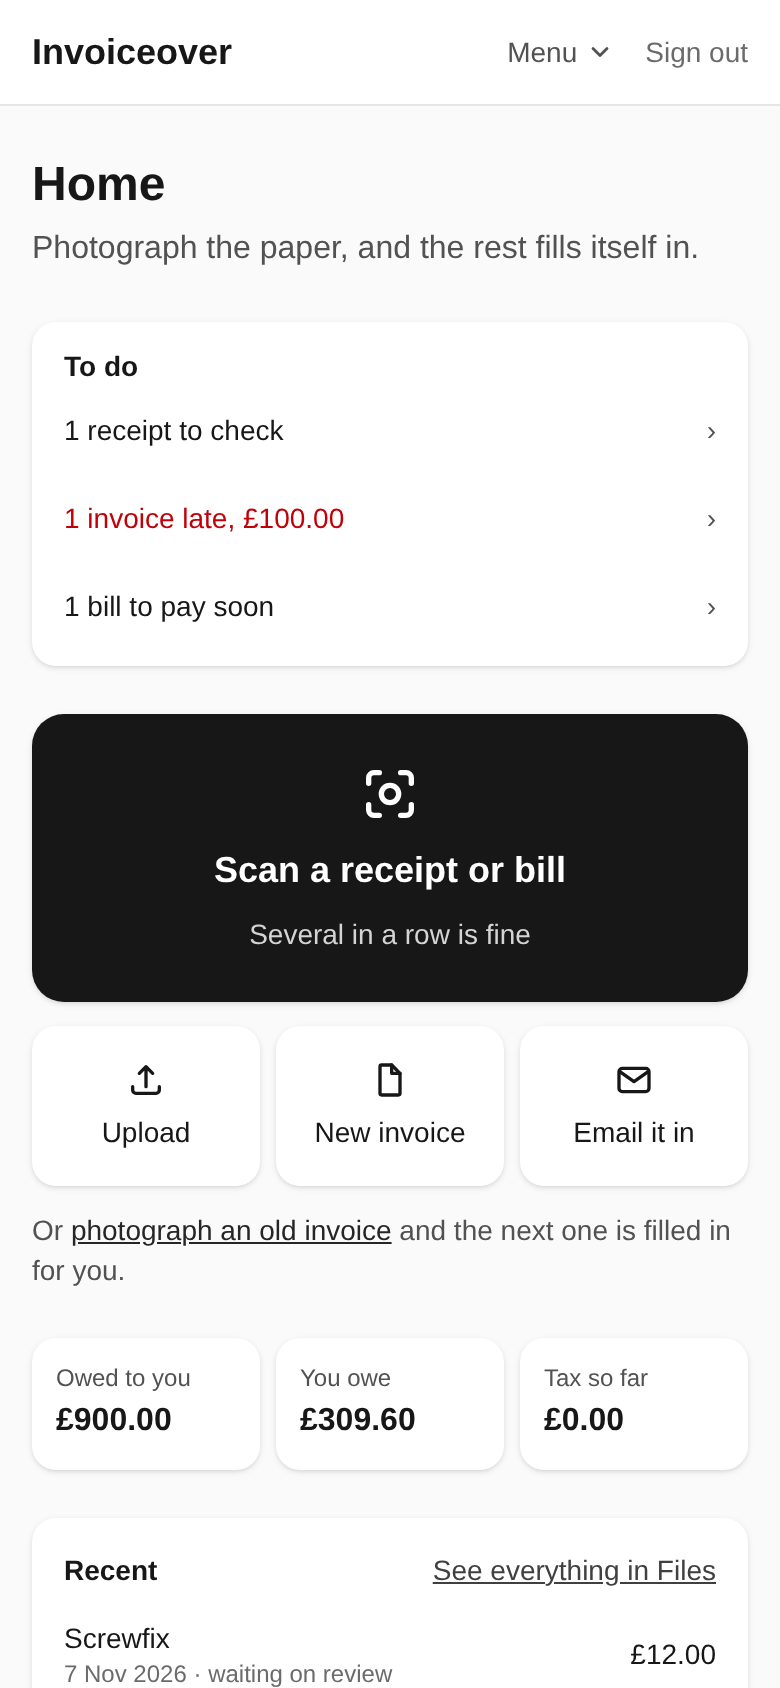
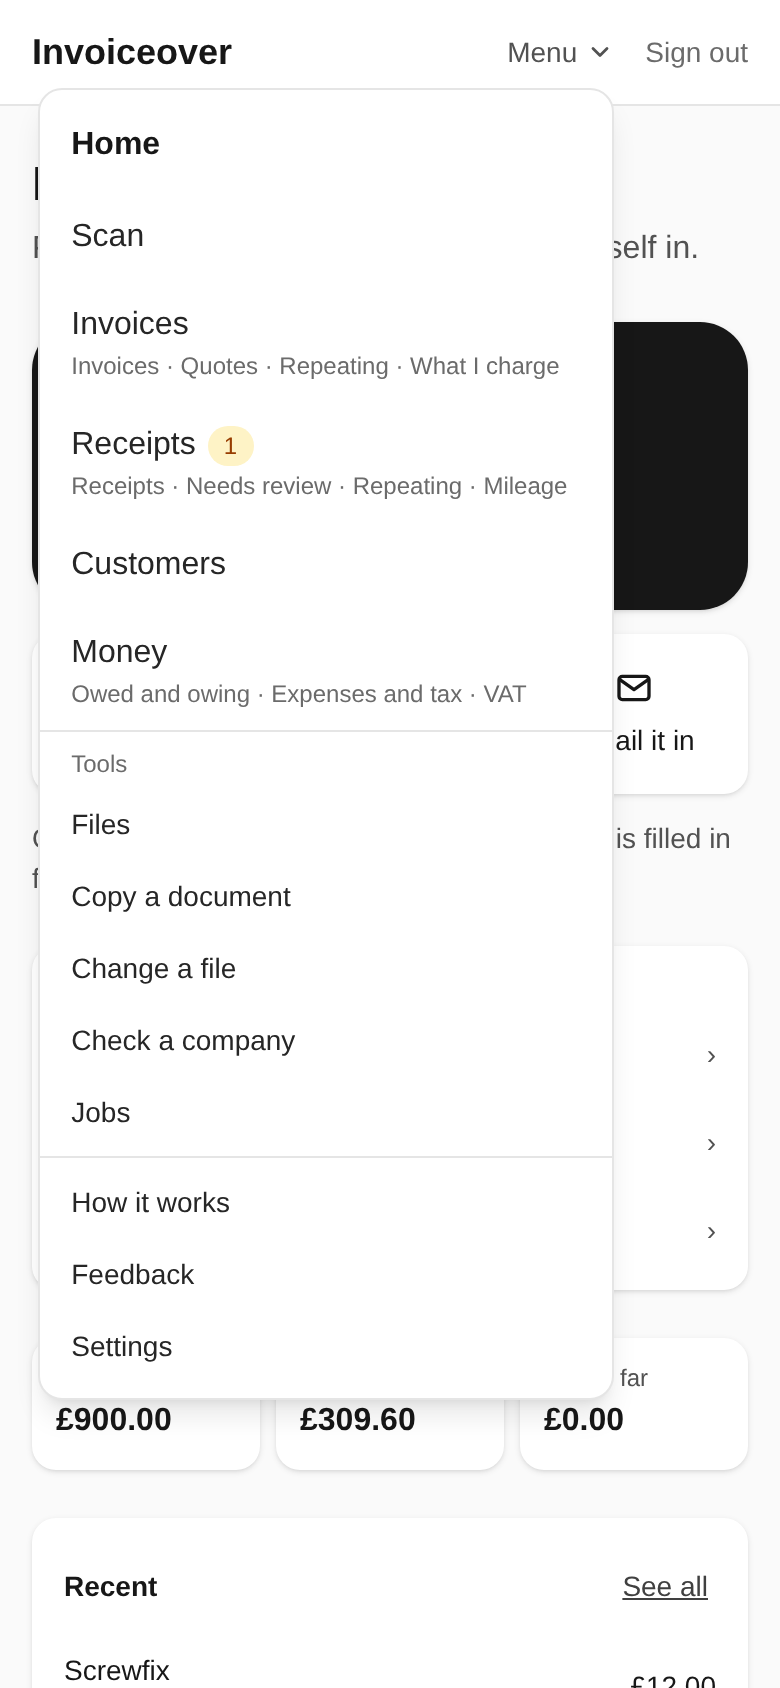
Phone menu: Scan first as the one filled button, 44pt rows
Scan was one row among fourteen. It is now a filled button at the top of
the menu, with the scan icon, where a thumb lands without reading; Home
and the sections follow as before. The tool rows and the Menu button
itself are 44pt to press, and the sheet may run to the screen's height
less the header so the longer rows don't scroll on an iPhone.

Claude-Session: https://claude.ai/code/session_01WBx14F7rB2ZbvQ6EsWyPNC

diff --git a/web/src/app/AppShell.tsx b/web/src/app/AppShell.tsx
@@ -71,13 +71,13 @@ function Menu({ label, here, width, children }: { label: string; here: boolean; 
   }, []);
   return (
     <details ref={box} className="relative">
-      <summary className={`flex cursor-pointer list-none items-center gap-1 [&::-webkit-details-marker]:hidden ${here ? "font-semibold text-neutral-900" : ""}`.trim()}>
+      <summary className={`flex min-h-11 cursor-pointer list-none items-center gap-1 [&::-webkit-details-marker]:hidden ${here ? "font-semibold text-neutral-900" : ""}`.trim()}>
         {label}
         <svg viewBox="0 0 20 20" aria-hidden="true" className="h-3.5 w-3.5">
           <path d="M5 7.5 10 12.5 15 7.5" fill="none" stroke="currentColor" strokeWidth="2" strokeLinecap="round" strokeLinejoin="round" />
         </svg>
       </summary>
-      <div className={`absolute right-0 z-30 mt-2 ${width} max-h-[80dvh] overflow-y-auto overscroll-contain rounded-xl border bg-white py-1 text-neutral-800 shadow-lg`}>{children}</div>
+      <div className={`absolute right-0 z-30 mt-2 ${width} max-h-[calc(100dvh-5rem)] overflow-y-auto overscroll-contain rounded-xl border bg-white py-1 text-neutral-800 shadow-lg`}>{children}</div>
     </details>
   );
 }
@@ -145,10 +145,21 @@ function PhoneMenu() {
   const review = useNeedsReview();
   return (
     <Menu label="Menu" here={!!current && current !== "/"} width="w-[min(18rem,calc(100vw-2rem))]">
+      {/* Scanning is what the app is for, so it is the one filled button,
+          first, where a thumb lands without reading the list. */}
+      {SECTIONS.filter((s) => s.href === "/scan").map((s) => (
+        <SectionLink key={s.href} section={s} className="mx-2 my-1 flex min-h-12 items-center gap-2 rounded-lg bg-neutral-900 px-4 py-3 text-base font-semibold text-white!">
+          <svg xmlns="http://www.w3.org/2000/svg" viewBox="0 0 24 24" fill="none" stroke="currentColor" strokeWidth="2" strokeLinecap="round" strokeLinejoin="round" className="h-5 w-5" aria-hidden="true">
+            <path d="M4 8V6a2 2 0 0 1 2-2h2M4 16v2a2 2 0 0 0 2 2h2M20 8V6a2 2 0 0 0-2-2h-2M20 16v2a2 2 0 0 1-2 2h-2" />
+            <circle cx="12" cy="12" r="3.25" />
+          </svg>
+          {s.label}
+        </SectionLink>
+      ))}
       <NavLink href="/" className="block px-4 py-3 text-base">
         Home
       </NavLink>
-      {SECTIONS.map((s) => (
+      {SECTIONS.filter((s) => s.href !== "/scan").map((s) => (
         <SectionLink key={s.href} section={s} className="block px-4 py-2.5 text-base">
           <span className="flex items-center">
             {s.label}
@@ -160,14 +171,14 @@ function PhoneMenu() {
       <div className="border-t pb-1">
         <p className="px-4 pb-1 pt-2 text-xs text-neutral-500">{TOOLS_LABEL}</p>
         {TOOLS.map(([href, label]) => (
-          <NavLink key={href} href={href} className="block px-4 py-2">
+          <NavLink key={href} href={href} className="block px-4 py-2.5">
             {label}
           </NavLink>
         ))}
       </div>
       <div className="border-t py-1">
         {[...AFTER_TOOLS, ["/settings", "Settings"] as [string, string]].map(([href, label]) => (
-          <NavLink key={href} href={href} className="block px-4 py-2">
+          <NavLink key={href} href={href} className="block px-4 py-2.5">
             {label}
           </NavLink>
         ))}
